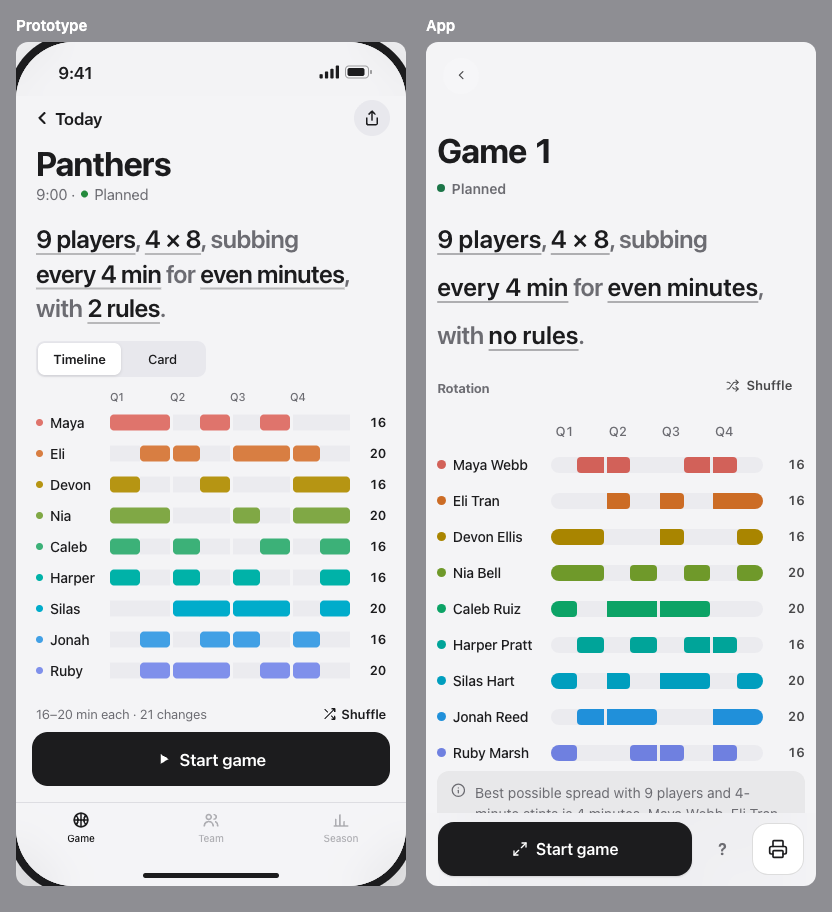
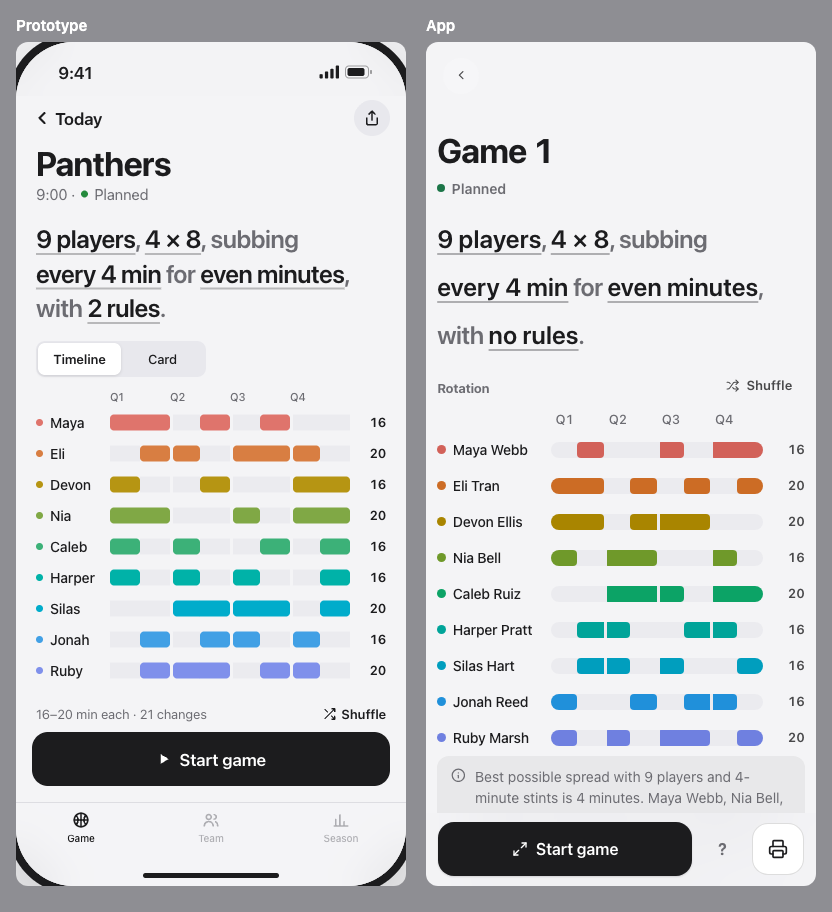
Game rows: leave room for a four-line sentence
CI failed game rows fit: row 9 ended at 776.75, past #actionbar at 770.81.
Ubuntu has no SF or Roboto, so --font falls back to a wider face and the
sample sentence wraps to four 48px lines instead of three (reproduced
locally by forcing Verdana: the same 776.75). A longer sentence does the
same on a phone, so this is space to find, not a CI quirk.

.s-rot > .block-hd loses its 12px bottom margin (Shuffle is 48px tall
with the label centered, so its lower half is already the gap) and
.tl-head's gap goes .45rem -> .25rem. Four-line case now ends at 761.56,
three-line at 713.56. Side-by-sides retaken. VERSION 290.

Changed region(s): [[0.5, 0.4605, 0.9688, 0.8904]]

diff --git a/app/app.css b/app/app.css
@@ -180,6 +180,13 @@ a { color: inherit; }
    tracking. `.block-hd` is only ever "Rotation" and (above 1099px, before
    `.cardtoggle h3` below overrides it back to a row) "The card". */
 .block-hd h3 { font-size: var(--fs-footnote); color: var(--muted); font-weight: 700; }
+/* #72: no gap under "Rotation". Its Shuffle is 48px tall with the label
+   centered, so the button's own lower half is already the space. The 12px
+   this saves, with .tl-head's smaller gap, is what lets a sentence that wraps
+   to four lines still leave all nine rows above the Start game bar at
+   390x844 (smoke `game rows fit`; CI's wider Linux fallback font wraps the
+   sample sentence to four lines, as longer sentences do on a phone). */
+.s-rot > .block-hd { margin-bottom: 0; }
 .block-hd .hint { margin-left: auto; font-size: var(--fs-footnote); color: var(--faint); font-variant-numeric: tabular-nums; }
 /* #69 item 4: Shuffle is swept at 48px on the game screen; scoped to the id
    because `.btn.sm` is a shared small-button size used well beyond it. */
@@ -663,7 +670,7 @@ a { color: inherit; }
    case that needs the extra room. */
 .tl { --lab: 9.5rem; --tot: 2rem; container-type: inline-size; }
 .tl:not(.even) { --tot: 5.2rem; }
-.tl-head { display: grid; grid-template-columns: 1fr; gap: .6rem; align-items: end; margin-bottom: .45rem; }
+.tl-head { display: grid; grid-template-columns: 1fr; gap: .6rem; align-items: end; margin-bottom: .25rem; }
 .tl-head > div:first-child, .tl-head > div:last-child { display: none; }
 .tl-periods { position: relative; height: 1.1rem; padding: 0 .3rem; }
 /* #69 decision 7: no uppercase, no heavy weight -- a quiet footnote above the

diff --git a/app/sw.js b/app/sw.js
@@ -19,7 +19,7 @@
    whenever a precached file changes -- `npm test` names it in the SHELL
    failure and `scripts/check-sw-version.mjs` enforces it across commits --
    but a forgotten bump is now a stale LABEL, not a stale SHELL. */
-const VERSION = '289';
+const VERSION = '290';
 
 /* Fingerprint of every file PRECACHE names, and the half of the cache name
    that actually busts it. `test/sw.test.js` recomputes it from the bytes on
@@ -29,7 +29,7 @@ const VERSION = '289';
    `activate` below deletes the old one. It lives HERE rather than in the test
    so that the edit updating it lands on the line below VERSION. Deleting it
    fails the suite too. */
-const SHELL = '144442b12549';
+const SHELL = 'c5ac487529ef';
 
 const CACHE = `benchcard-v${VERSION}-${SHELL}`;
 
